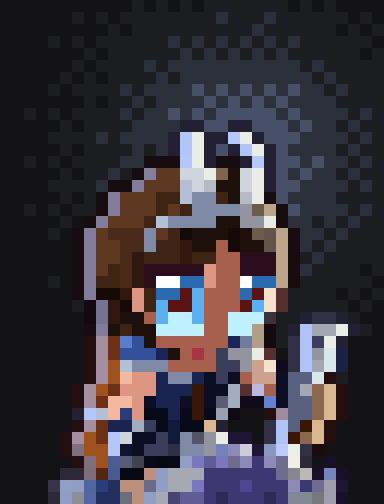
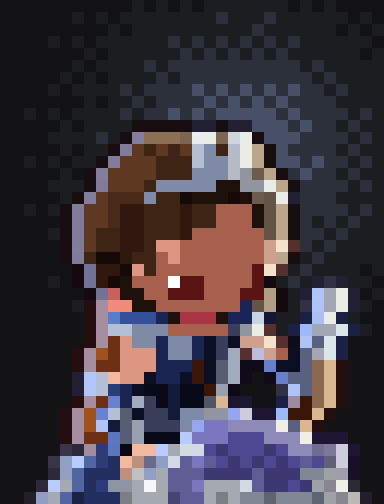
Mirana review fixes: small dark dot eyes, smaller crescent tiara, portrait framing; rename parts.js bow -> bowInHand (merge with Drow's free-axis bow)

diff --git a/client/src/art/portraits/mirana.js b/client/src/art/portraits/mirana.js
@@ -1,7 +1,7 @@
 // GENERATED by tools/vox/portrait.mjs (mirana) -- do not edit by hand. Voxel HUD portrait 32x42 (= the 32x42 the HUD shows, 1 art px = 1 u), opaque.
 // Loaded by client/src/art/portraits.js, which swaps it into the sheet's 'portrait' frame unless ?vox=0.
 export default {
-  pal: { '0':'#240e0f', '1':'#eaece6', '2':'#0c0e24', '3':'#2a0e1e', '4':'#817c9b', '5':'#dc9682', '6':'#bff0ff', '7':'#1a2450', '8':'#9295a0', '9':'#3a3e5a', '!':'#131315', '#':'#1b1d21', '$':'#2c303b', '%':'#475066', '&':'#a8604e', '(':'#170c10', ')':'#242034', '*':'#5e3820', '+':'#1e100a', ',':'#3e2414', '-':'#7e8aa6', '/':'#3d3872', ':':'#080a1a', ';':'#4a2a18', '<':'#30180e', '=':'#323045', '>':'#a48e9f', '?':'#5a6080', '@':'#2a6ab0', 'A':'#a0521e', 'B':'#cfd5dd', 'C':'#bba68c', 'D':'#160a08', 'E':'#5ab0f0', 'F':'#6e3014', 'G':'#dbb791', 'H':'#a5aab2', 'I':'#b4bed4', 'J':'#5a1414', 'K':'#b0c3f7', 'L':'#3a1608', 'M':'#56302e', 'N':'#14090f', 'O':'#a3a7b4', 'P':'#34509a', 'Q':'#f2b8a0', 'R':'#8b674d', 'S':'#1e1533', 'T':'#8e8ab7', 'U':'#6f6c8f', 'V':'#2d2939', 'W':'#171028', 'X':'#bd907d', 'Y':'#909ec5', 'Z':'#ffffff', '[':'#f4e2cd', ']':'#d9e6ea', '^':'#cea18e', '_':'#0f0b1b', 'a':'#a3abbf', 'b':'#b2c6fa', 'c':'#060814', 'd':'#7a76c0', 'e':'#5f5c96', 'f':'#222f5e', 'g':'#b2c5f9', 'h':'#b5c8fb', 'i':'#b0c4f7', 'j':'#b4bbc6', 'k':'#6d5b4b', 'l':'#645448', 'm':'#757395', 'n':'#b19e87', 'o':'#1a2456', 'p':'#1a2144', 'q':'#2c3c78', 'r':'#121a3a', 's':'#806f7c', 't':'#929fc5', 'u':'#a09eac', 'v':'#2d2a55', 'w':'#808896', 'x':'#b3c7fa', 'y':'#847f9d', 'z':'#7d6550', '{':'#3c323c', '|':'#5a7ccc', '}':'#717c9c', '~':'#a83444', '¡':'#bbb8dc', '¢':'#585d72', '£':'#6680cb', '¤':'#99a0b0', '¥':'#0e0917', '¦':'#9f8b9e', '§':'#515565', '¨':'#0e142d', '©':'#2d3046', 'ª':'#7581ba', '«':'#cdcbdc', '¬':'#8998c1', '®':'#bbccfc', '¯':'#eceee7', '°':'#1c0b0c', '±':'#495c94', '²':'#565d75', '³':'#3f424f', '´':'#919ec5', 'µ':'#efefe7', '¶':'#7e6d7c', '·':'#562510', '¸':'#495b93', '¹':'#888790', 'º':'#babab4', '»':'#7783bb', '¼':'#3a3449', '½':'#5165a1', '¾':'#6c6a8a', '¿':'#4e4892', 'À':'#8e8f92', 'Á':'#5267a3', 'Â':'#696f7b', 'Ã':'#474570', 'Ä':'#76787b' },
+  pal: { '0':'#3d3872', '1':'#4e4892', '2':'#a5aab2', '3':'#dc9682', '4':'#242034', '5':'#0c0e24', '6':'#5f5c96', '7':'#1a2450', '8':'#eaece6', '9':'#a48e9f', '!':'#131315', '#':'#1b1d21', '$':'#2c303b', '%':'#a8604e', '&':'#3e2414', '(':'#475066', ')':'#170c10', '*':'#7e8aa6', '+':'#5e3820', ',':'#240e0f', '-':'#1e100a', '/':'#30180e', ':':'#080a1a', ';':'#5a1414', '<':'#3a3e5a', '=':'#8e8ab7', '>':'#bba68c', '?':'#1e1533', '@':'#222f5e', 'A':'#817c9b', 'B':'#b4bed4', 'C':'#1a2144', 'D':'#6e3014', 'E':'#5a6080', 'F':'#dbb791', 'G':'#7a76c0', 'H':'#808896', 'I':'#9295a0', 'J':'#160a08', 'K':'#14090f', 'L':'#3a1608', 'M':'#4a2a18', 'N':'#645448', 'O':'#cea18e', 'P':'#56302e', 'Q':'#a3a7b4', 'R':'#0f0b1b', 'S':'#1a2456', 'T':'#a3abbf', 'U':'#8b674d', 'V':'#f2b8a0', 'W':'#2c3c78', 'X':'#121a3a', 'Y':'#b9cbfc', 'Z':'#2d2939', '[':'#d4dae4', ']':'#5165a1', '^':'#8d6f56', '_':'#b4bbc6', 'a':'#f4e2cd', 'b':'#323045', 'c':'#b0c3f7', 'd':'#34509a', 'e':'#a83444', 'f':'#d9e6ea', 'g':'#a0521e', 'h':'#585d72', 'i':'#99a0b0', 'j':'#cdcbdc', 'k':'#efefe7', 'l':'#929fc5', 'm':'#9ea1a5', 'n':'#7d6550', 'o':'#837e9b', 'p':'#6d5b4b', 'q':'#757395', 'r':'#b19e87', 's':'#f08a7a', 't':'#9cbaf9', 'u':'#6680cb', 'v':'#b2c6fa', 'w':'#6882cf', 'x':'#565d75', 'y':'#3a3449', 'z':'#bd907d', '{':'#909ec5', '|':'#171028', '}':'#8c94a5', '~':'#888790', '¡':'#221e2a', '¢':'#7b7f85', '£':'#5f6570', '¤':'#847f9d', '¥':'#e9edef', '¦':'#cfd5dd', '§':'#807b9a', '¨':'#747395', '©':'#ffffff', 'ª':'#c86060', '«':'#b0c4f7', '¬':'#5a7ccc', '®':'#c7d4e2', '¯':'#161532', '°':'#acbff4', '±':'#bdbcdf', '²':'#0e0917', '³':'#515565', '´':'#9f8b9e', 'µ':'#95a5ee', '¶':'#afc3f8', '·':'#96a6ef', '¸':'#5d76be', '¹':'#a18c9f', 'º':'#5d75bc', '»':'#060814', '¼':'#6f6c8f', '½':'#7d789a', '¾':'#6c6a8a', '¿':'#625e78', 'À':'#bec0c3', 'Á':'#a09eac', 'Â':'#f4f6fa', 'Ã':'#1a2346', 'Ä':'#474570', 'Å':'#babab4' },
   face: [4, 11, 24, 24],
   rows: [
     '!!!!!!!!!!!#!#!#!#######!#!#!!!!',
@@ -11,40 +11,40 @@ export default {
     '!!!!!!!#!######$#$#$#$#$######!#',
     '!!!!!!#!####$#$$$$$$$$$$$#$#####',
     '!!!!!#!#!####$#$$$$$$$$$$$#$####',
-    '!!!!#!####$#$$$$%$%$%$%$%$$#$###',
-    '!!!!!!!#!##$#$$$$%$%$%$%$$$$####',
-    '!!#!#!####$#$$%$%$%%%%%$%$$$$#$#',
-    '!!!!!#!####$$$$))%%))%%%$%$$#$##',
-    '!!!!####$#$$$$)g1))h1)%%%$$$$#$#',
-    '!!!!!#!####$#$)g1)%)i1)%$$$$#$##',
-    '!!#!#!####$$(((x1)(()h)%%$%$$#$#',
-    '!!!!!#!##$#(y**BB1z+B1)%$%$$#$##',
-    '!!!!####$((4***IBj++B1)%%$$$$#$#',
-    '!!!!!#!#(4***,,I--,+j1(%$$$$####',
-    '!!#!#!##(4***,*,----8kC(%$$$$#$#',
-    '!!!!!#!(4***,I----++881($$#$#$##',
-    '!!!!#!(4*;;;-*,D+++D+klC($$#$###',
-    '!!!!!!(4**;;-,,<++&D++lC($#$####',
-    '!!!!!!(4**;<,,,<,,&&333C(#$#####',
-    '!!!!!!(4*,;<333335&&333C($####!#',
-    '!!!!#!(4,,;<3ZZ@@5&&Z@@C(######!',
-    '!!!!!!(4DD<5,@@JE&&&@J[M####!#!#',
-    '!!!!!!#Nm<D5,EJJE&&&JE[M#####!#!',
-    '!!!!!!!Nm<++&E66E&&666{##)==)#!!',
-    '!!!!!!!(4+,++6666&&66nN#)iOO1)#!',
-    '!!!!!!!0>F|P+&&&&&&o}nN#=K91)!!!',
-    '!!!!!!!0>FPPPo+&~&9881M!=K8]p!!!',
-    '!!!!!!!0>AI---&&&&998^[_=KO]p!!!',
-    '!!!!!!!0>AQ557--7292&^^2??]0#!!!',
-    '!!!!!!0>AF555777L22aM¡&2?ORG0!!!',
-    '!!!!!!0>FQQ52772L2¢a__£2??RG0!!!',
-    '!!!!!!)bIQq5::7:L:¤¥!!0¦??RG0!!!',
-    '!!!!!!0>F77a9:r::G)!!!=K?LG0!!!!',
-    '!!!!!0>AFbB229r-§81SS!=KLRG0!!!!',
-    '!!!!!0sAAb¨299©--8ªT«S¬®¯=°!!!!!',
-    '!!!!!!0sA±²³:c:´dedUT/TUµV!W!!!!',
-    '!!!!!VV¶·¸ccXYHHH//////U¹ºW»W!!!',
-    '!!!!¼tY½qfXX¾YHHd///¿///T/UuS!!!',
-    '!!!!VYÀÁffÂXtHÃee/v///v/wwÄuW!!!'
+    '!!!!#!####$#$$$$($($($($($$#$###',
+    '!!!!!!!#!##$#$$$$($($($($$$$####',
+    '!!#!#!####$#$$($($((((($($$$$#$#',
+    '!!!!!#!####)))))44)44((($($$#$##',
+    '!!!!####$#)¤^^^n¥8n¦8)((($$$$#$#',
+    '!!!!!#!##)A+&+&+B*&_8>)($$$$#$##',
+    '!!#!#!##)A+++&&&B**_8>)(($($$#$#',
+    '!!!!!#!)o++++&&&***_Ip>)$($$#$##',
+    '!!!!###)A+++&*****--II8>)$$$$#$#',
+    '!!!!!#)o+MMM*&&J---J-pN84$$$####',
+    '!!#!#)A++M//&&&/&&%%%-N>)$$$$#$#',
+    '!!!!!)A++M//&&&/&&%%%-N>)$#$#$##',
+    '!!!!#)A+&&//&&&/%%%%%%N>)$$#$###',
+    '!!!!!)A+&&//&33%%%%%%%OaP$#$####',
+    '!!!!!)§&JJ/&&%3%%%%%%%O>)#$#####',
+    '!!!!!!K¨//J3&%%%%%%%%;aP#$####!#',
+    '!!!!#!Kq/J-%%%©;;%%%%;K#$#4b4##!',
+    '!!!!!!!Kqª--%%;;;%%%;;rK#4«Q84!#',
+    '!!!!!!#,9ss--%%%%%%%SNrK#bcQ84#!',
+    '!!!!!!!,9¬dddS-eee-SS®¯##C°8C#!!',
+    '!!!!!!!,9BB***%%%%%<I8P#CtQQfC#!',
+    '!!!!!!!,9D3**7**75<5OOaPRcEfC!!!',
+    '!!!!!!,9gD3337**75<TP±O%5EQfC!!!',
+    '!!!!!!,9DD333777L5hTRRu55EUF,!!!',
+    '!!!!!!4vBV335775L5hTR!RuEEUF,!!!',
+    '!!!!!!4vBW75::X::Li²!!!bcEUF,!!!',
+    '!!!!!!,9Dw7T<:X::³F??!!C´LUF,!!!',
+    '!!!!!,9gwBh5<<X**IIµj??tLLF,!!!!',
+    '!!!!!,9g¶Xxi<<<*·GG====kEF,!!!!!',
+    '!!!!!,9DD¸xi:::YGGG111===k???!!!',
+    '!!!!!yZ¹Wº»VVY2[[1011101==¼½j?!!',
+    '!!!!ylY]W@Vz¾{[6G6101010161¿j|!!',
+    '!!!!Zl]@@@zÀl266600006000HHmÁ|!!',
+    '!!!ZY2]@W}}2Â266G222[60010m~kZ!!',
+    '!!¡{2]Ã@@@¢222Ä662¢2HH£HHH£m~Å¡!'
   ]
 };

diff --git a/shared/vox/heroes/mirana.js b/shared/vox/heroes/mirana.js
@@ -1,6 +1,6 @@
 // Voxel Mirana, a chibi of her Dota 2 model (hand-authored): Princess of the Moon riding Sagan, her big white cat. The mount is the model's body
 // (quad rig: chunky white cat, heavy shoulders, lilac mane ruff, big round head, long curling tail); the rider is a biped solved on its back
-// (hips on the saddle cloth, legs straddling, feet pinned to the flanks). Rider: long dark-brown hair under a silver crescent tiara, navy armour
+// (hips on the saddle cloth, legs straddling, feet pinned to the flanks). Rider: long dark-brown hair under a small silver crescent tiara, navy armour
 // with silver trim and pauldrons, a leather quiver on the back, a big blue recurve bow in her left (+x) hand; a navy saddle cloth with a silver hem
 // drapes over the cat's flanks. Signature reads: long white-cat silhouette with the rider on top, silver crescent over brown hair, navy + silver,
 // the blue bow. Grid 36 x 50 x 52, ~44 voxels to the rider's crown, faces -y. Built on the kit. No rigOf: the ragdoll wants a lone biped,
@@ -9,7 +9,7 @@ import { Vox } from '../vox.js';
 import { useMat, useIris } from '../mats.js';
 import { solve, xfApply } from '../rig.js';
 import { LIBRARY } from '../poses.js';
-import { limb, band, hand, feet, torso, pauldron, ell, cap, vol, faceWindow, hairShell, stripes, eyes, mouth, decal, bow } from '../parts.js';
+import { limb, band, hand, feet, torso, pauldron, ell, cap, vol, faceWindow, hairShell, stripes, eyes, mouth, decal, bowInHand } from '../parts.js';
 
 export const META = { rig: 'quad', grid: [36, 50, 52], cx: 18, cy: 25 };
 const cx = 18, cy = 24;   // rider centre (a little ahead of the cat's middle)
@@ -155,19 +155,19 @@ export function build(p = {}) {
   limb(v, [[hx, hy + 5.2, hz - 2.5], [hx + sw, hy + 7 + trail * 2, hz - 7.5 + trail], [hx + sw * 1.6, hy + 7.8 + trail * 4, hz - 12.5 + trail * 3]].map(q => xfApply(Rh, q)),
     [2.1, 1.8, 1], (px, py, pz) => hair(px, pz));
   const tiara = [[-4.8, -3.4, 2.4], [-2.6, -5.2, 3.6], [0, -5.9, 4.1], [2.6, -5.2, 3.6], [4.8, -3.4, 2.4]].map(([a, b, c]) => xfApply(Rh, [hx + a, hy + b, hz + c]));
-  limb(v, tiara, [0.6, 0.6, 0.6, 0.6, 0.6], M.silver);
+  limb(v, tiara, [0.5, 0.5, 0.5, 0.5, 0.5], M.silver);
   for (const s of [-1, 1]) {   // crescent horns curling up and in
-    limb(v, [[s * 1, -5.8, 4.4], [s * 2.8, -5.2, 7.2], [s * 1.7, -4.6, 9.2]].map(([a, b, c]) => xfApply(Rh, [hx + a, hy + b, hz + c])), [0.85, 0.7, 0.45], M.silver);
+    limb(v, [[s * 0.8, -5.9, 4.2], [s * 1.7, -5.6, 5.6], [s * 1.1, -5.3, 6.6]].map(([a, b, c]) => xfApply(Rh, [hx + a, hy + b, hz + c])), [0.6, 0.5, 0.4], M.silver);
   }
-  const g = xfApply(Rh, [hx, hy - 6.1, hz + 4.6]); v.ellipsoid(g[0], g[1], g[2], 0.7, 0.6, 0.7, M.gem);
+  const g = xfApply(Rh, [hx, hy - 6, hz + 4.3]); v.ellipsoid(g[0], g[1], g[2], 0.6, 0.6, 0.6, M.gem);
   // ---- face, painted on the front-most voxels (follows the posed head)
   const ox = Math.round(hcen[0] - cx), oz = Math.round(hcen[2] - HZ), ez = Math.round(HZ - 4) + oz;
-  eyes(v, { at: [[cx - 4 + ox, cx - 5 + ox], [cx + 1 + ox, cx + 4 + ox]], z: ez, style: 'big', state: r.eyes }, M);
+  eyes(v, { at: [[cx - 3 + ox], [cx + 2 + ox]], z: ez, style: 'dot', state: r.eyes }, M);   // small dark eyes on skin
   decal(v, [[cx - 5 + ox, ez - 1], [cx + 4 + ox, ez - 1]], M.blush);
   mouth(v, [[cx + ox, ez - 2], [cx - 1 + ox, ez - 2]], M.mouth);
   // ---- bow in the left hand (after the face so a raised bow never takes the eye paint)
   const B = r.bow || {};
-  bow(v, rig, 'L', { up: B.up || [0.4, -0.45, 1], fwd: B.fwd || [1, 0.2, 0], len: 8, bend: 2.6, recurve: 1.2, r: 1.1, draw: B.draw ? J.handR : null },
+  bowInHand(v, rig, 'L', { up: B.up || [0.4, -0.45, 1], fwd: B.fwd || [1, 0.2, 0], len: 8, bend: 2.6, recurve: 1.2, r: 1.1, draw: B.draw ? J.handR : null },
     { limb: M.sky, grip: M.leather, string: M.string, tip: M.silver });
   return v;
 }
@@ -198,4 +198,4 @@ export const ANIMS = {
 ANIMS.cast[2] = ANIMS.cast[1];   // hold the overhead bow; idle / walk share frames too (GPU budget < 3 MB with two bodies per frame)
 
 /** HUD portrait framing (tools/vox/portrait.mjs): the rider's face in the upper third. */
-export const PORTRAIT = { pose: ANIMS.idle[0], center: [cx + 0.4, cy, HZ + 0.8], scale: 1.15, fov: 24, sig: '#9ab8ff', face: [4, 11, 24, 24] };
+export const PORTRAIT = { pose: ANIMS.idle[0], center: [cx + 0.4, cy, HZ - 1.6], scale: 1.2, fov: 24, sig: '#9ab8ff', face: [4, 11, 24, 24] };

diff --git a/shared/vox/parts.js b/shared/vox/parts.js
@@ -302,11 +302,11 @@ export function shield(v, rig, k, o, M) {
   v.ellipsoid(...add3(c, mul3(n, th / 2)), 0.9, 0.9, 0.9, M.boss);
 }
 /**
- * Bow held in hand k (archers). o: { up, fwd } body-frame vectors (posed by the torso): bow axis and the side its belly faces (toward the target);
+ * Bow in hand k, rig-posed, optional drawn string (`bow` is the free-axis variant). o: { up, fwd } body-frame vectors (posed by the torso): bow axis and the side its belly faces (toward the target);
  * len = half length; bend = limb curve back toward the archer at the tips; recurve = tips flicking forward; r = limb radius at the grip
  * (>= 0.9: thinner capsules leave gaps on diagonals); sr = string radius; draw = posed point the string is pulled to (null = straight string). M: { limb, grip, string, tip? }. Returns [top, bottom] tips.
  */
-export function bow(v, rig, k, o, M) {
+export function bowInHand(v, rig, k, o, M) {
   const Rt = rig.T.torso && rig.T.torso.R, h = rig.J['hand' + k], f = norm3(apM(Rt, o.fwd || [0, -1, 0]));
   let u = apM(Rt, o.up || [0, 0, 1]); u = norm3(sub3(u, mul3(f, dot3(u, f))));
   const L = o.len ?? 7, bend = o.bend ?? 2.2, rc = o.recurve ?? 1, r = o.r ?? 1, N = Math.max(6, Math.ceil(L * 1.5));

diff --git a/docs/VOXEL.md b/docs/VOXEL.md
@@ -79,7 +79,7 @@ Pose channels (all optional): `bob`; `spine` / `head` / `body` `[pitch, yaw, rol
 | Body | `torso` (cross-section fn), `skirt`, `pauldron` |
 | Head | `faceWindow` (fringe line), `head`, `hairShell`, `helmet`, `eyes` (`big`, `dot`), `mouth` |
 | Signature | `flame` (tongues over 4 emissive steps) |
-| Held | `weapon` (`sword`, `club`, `spear`, `axe` at a hand socket), `shield`, `bow` |
+| Held | `weapon` (`sword`, `club`, `spear`, `axe` at a hand socket), `shield`, `bowInHand` (rig hand, drawn string) |
 
 ## Materials (`mats.js`)
 `useMat(v, name, { from, ...overrides })`. Heroes pick by name and override only signature colours.
